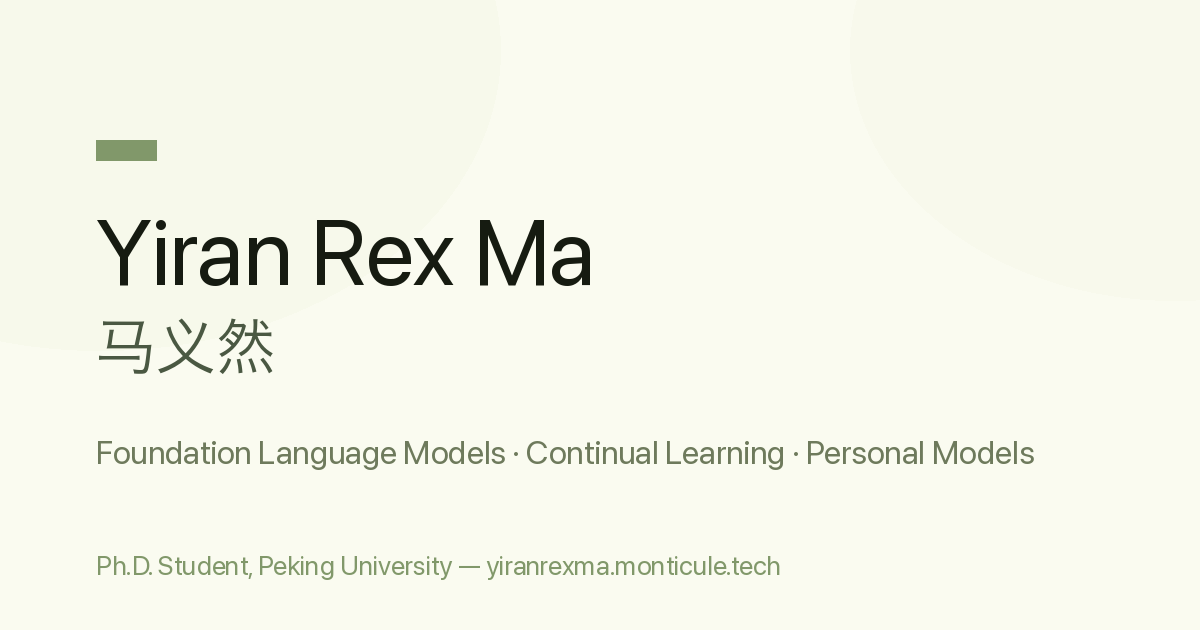
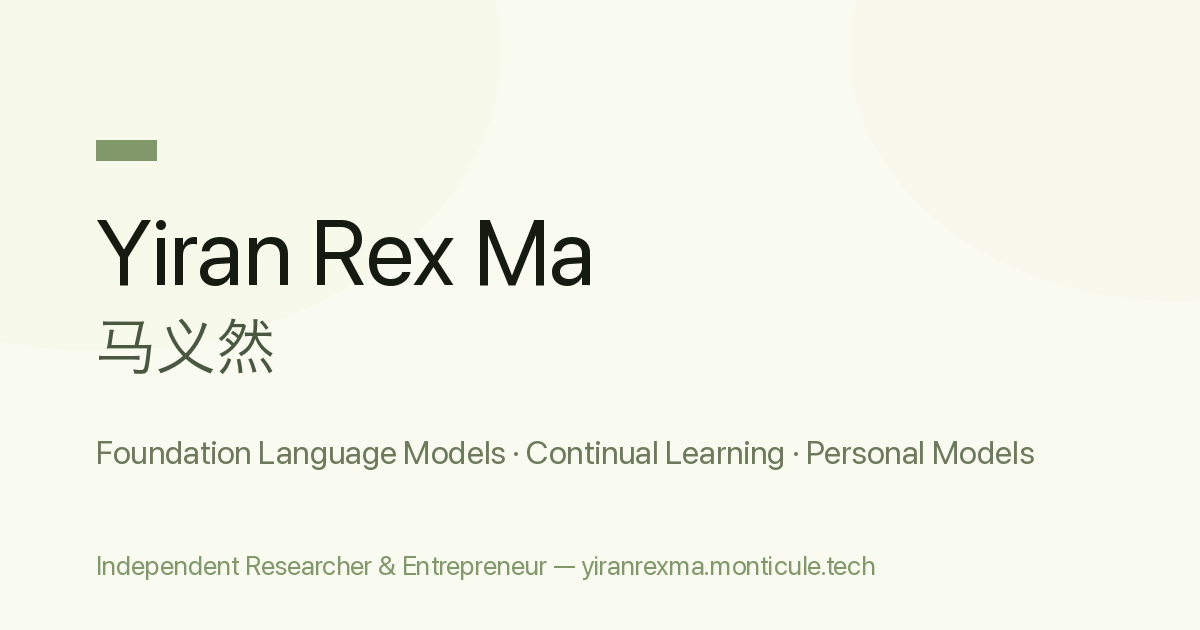
Identity update: independent researcher; remove institution references
Per request, the site and CV now present the sole academic identity of
master's student in Foreign Linguistics and Applied Linguistics at
Peking University plus independent researcher / entrepreneur:

- profile/sidebar, home intro, Story page, and SEO descriptions updated;
  no more Ph.D. wording, PKU AI institute, PKUDH, advisor, or Qwen/Alibaba
- updates feed: the "Joined PKUDH" and "Joined the Qwen Team" entries
  removed (both locales)
- CV: education de-instituted (Peking University, master's program, no
  advisor line); the Qwen Team experience entry deleted in both languages;
  lede lines drop the Qwen mention
- OG share image regenerated with the new role line

Note: mas-thoughts.mdx keeps Qwen model identifiers inside code blocks
(vllm serve examples) — technical references, not affiliation.

Changed region(s): [[0.0617, 0.8746, 0.74, 0.9349]]

diff --git a/public/cv.html b/public/cv.html
@@ -315,7 +315,7 @@
       <header class="masthead">
         <h1>马义然</h1>
         <p class="contact">+86 177 1399 9172<span class="sep">·</span><a href="mailto:yiranrexma@outlook.com">yiranrexma@outlook.com</a><span class="sep">·</span><a href="https://yiranrexma.monticule.tech">yiranrexma.monticule.tech</a></p>
-        <p class="lede">基础语言模型 · 持续学习 ｜ Qwen · 面壁垂域基座经验</p>
+        <p class="lede">基础语言模型 · 持续学习 ｜ 面壁垂域基座经验</p>
       </header>
 
       <img class="avatar" alt="证件照" src="cv/assets/avatar.jpg">
@@ -324,12 +324,9 @@
         <h2>教育背景</h2>
         <div class="entry">
           <div class="row">
-            <span class="org"><span class="school">北京大学人工智能研究院</span><span class="sub"><b>硕士（推荐免试）</b><span class="sep">·</span>外国语言学及应用语言学</span></span>
+            <span class="org"><span class="school">北京大学</span><span class="sub"><b>硕士研究生</b><span class="sep">·</span>外国语言学及应用语言学</span></span>
             <span class="date">2026.09 –</span>
           </div>
-          <ul>
-            <li>北大 × 字节跳动数字人文开放实验室（PKUDH）<span class="sep">·</span><b>导师</b>：苏祺 长聘副教授</li>
-          </ul>
         </div>
         <div class="entry">
           <div class="row">
@@ -344,17 +341,6 @@
 
       <section>
         <h2>实习与科研经历</h2>
-        <div class="entry">
-          <div class="row">
-            <span class="org">阿里集团·通义实验室（Qwen Team）<span class="sub">｜实习算法工程师 · 项目负责人</span></span>
-            <span class="date">2026.03 – 2026.07</span>
-          </div>
-          <ul>
-            <li>与中国社科院考古研究所合作，<b>主导</b>文化遗产垂域多模态基座建设：构建 <b>1.5 亿（150M）高质量领域图文对</b>，基于 Qwen3.5-122B-A10B 完成领域微调与强化学习，覆盖文物–古籍协同推理、文物修复、文明演化推断场景</li>
-            <li><b>从 0 到 1 负责全链路</b>：领域数据基建 → 持续学习 → Context/Harness 工程 → 评测 → 人类反馈</li>
-          </ul>
-        </div>
-
         <div class="entry">
           <div class="row">
             <span class="org">清华大学计算机系·自然语言处理实验室 × 面壁智能（THUNLP × ModelBest）<span class="sub">｜科研实习生</span></span>
@@ -412,19 +398,16 @@
       <header class="masthead">
         <h1>Yiran Rex Ma</h1>
         <p class="contact">+86 177 1399 9172<span class="sep">·</span><a href="mailto:yiranrexma@outlook.com">yiranrexma@outlook.com</a><span class="sep">·</span><a href="https://yiranrexma.monticule.tech">yiranrexma.monticule.tech</a></p>
-        <p class="lede">Foundation language models &amp; continual learning | Domain foundation model experience with Qwen &amp; ModelBest</p>
+        <p class="lede">Foundation language models &amp; continual learning | Domain foundation model experience with ModelBest</p>
       </header>
 
       <section>
         <h2>Education</h2>
         <div class="entry">
           <div class="row">
-            <span class="org">Peking University, Institute for Artificial Intelligence <span class="sub">— M.A. in Theoretical and Applied Linguistics</span></span>
+            <span class="org">Peking University <span class="sub">— M.A. in Foreign Linguistics and Applied Linguistics</span></span>
             <span class="date">Sep 2026 –</span>
           </div>
-          <ul>
-            <li>PKU × ByteDance Digital Humanities Open Laboratory (PKUDH); Advisor: Prof. Qi Su</li>
-          </ul>
         </div>
         <div class="entry">
           <div class="row">
@@ -439,17 +422,6 @@
 
       <section>
         <h2>Experience</h2>
-        <div class="entry">
-          <div class="row">
-            <span class="org">Alibaba Group, Tongyi Lab (Qwen Team) <span class="sub">— Algorithm Engineering Intern, Project Lead</span></span>
-            <span class="date">Mar 2026 – Jul 2026</span>
-          </div>
-          <ul>
-            <li>Led the cultural-heritage multimodal foundation model with the Institute of Archaeology, CASS: curated <b>150M high-quality domain image-text pairs</b>; fine-tuned and RL-trained Qwen3.5-122B-A10B for artifact–ancient-text reasoning and restoration</li>
-            <li>Owned the end-to-end pipeline from scratch — domain data infrastructure, continual learning, context and harness engineering, evaluation, human feedback</li>
-          </ul>
-        </div>
-
         <div class="entry">
           <div class="row">
             <span class="org">Tsinghua University, THUNLP × ModelBest <span class="sub">— Research Intern</span></span>

diff --git a/app/(site)/[locale]/layout.tsx b/app/(site)/[locale]/layout.tsx
@@ -15,8 +15,8 @@ export function generateStaticParams() {
 }
 
 const LOCALE_DESCRIPTIONS: Record<Locale, string> = {
-  en: "Yiran Rex Ma — Ph.D. student in Theoretical and Applied Linguistics at Peking University. Foundation language models, continual learning, personal models, and AI for the humanities.",
-  zh: "马义然（Yiran Rex Ma）——北京大学语言学博士研究生。基础语言模型、持续学习、个人模型与计算人文。"
+  en: "Yiran Rex Ma — master's student in Foreign Linguistics and Applied Linguistics at Peking University, and an independent researcher. Foundation language models, continual learning, personal models, and AI for the humanities.",
+  zh: "马义然（Yiran Rex Ma）——北京大学外国语言学及应用语言学硕士研究生、独立研究者。基础语言模型、持续学习、个人模型与计算人文。"
 };
 
 export async function generateMetadata({ params }: { params: { locale: string } | Promise<{ locale: string }> }): Promise<Metadata> {

diff --git a/app/layout.tsx b/app/layout.tsx
@@ -10,7 +10,7 @@ import { Providers } from "@/components/providers";
 const SITE_URL = process.env.NEXT_PUBLIC_SITE_URL ?? "https://yiranrexma.monticule.tech";
 const SITE_NAME = "Yiran Rex Ma";
 const DESCRIPTION =
-  "Yiran Rex Ma (马义然) — Ph.D. student in Theoretical and Applied Linguistics at Peking University, working on foundation language models, continual learning, and personal models.";
+  "Yiran Rex Ma (马义然) — master's student in Foreign Linguistics and Applied Linguistics at Peking University and an independent researcher, working on foundation language models, continual learning, and personal models.";
 const OG_IMAGE = "/og.png";
 
 export const metadata: Metadata = {
